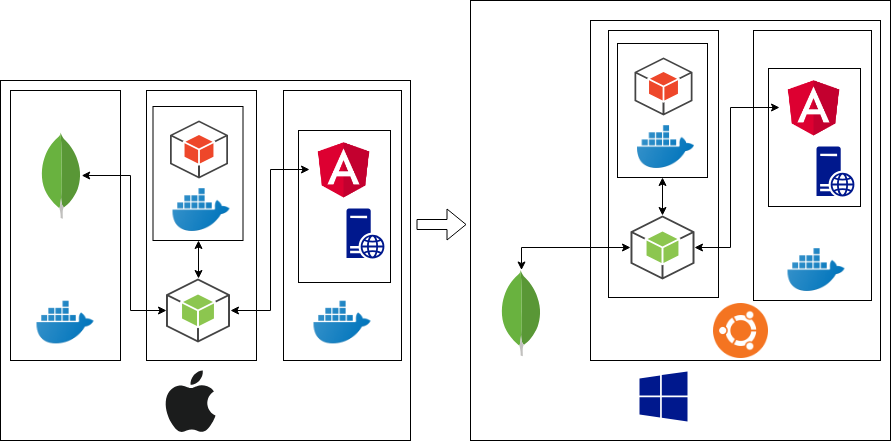
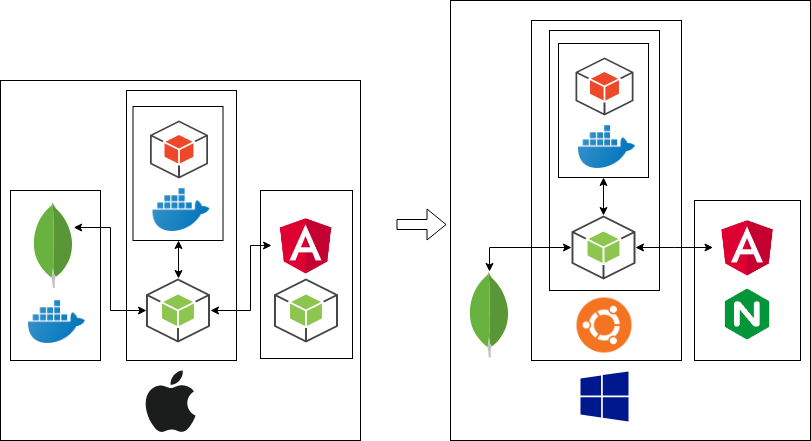
prod config

diff --git a/online-judge-site/src/app/services/code.service.ts b/online-judge-site/src/app/services/code.service.ts
@@ -1,7 +1,7 @@
 import { Injectable } from '@angular/core';
 import { HttpClient, HttpHeaders } from '@angular/common/http';
 
-import { Contest } from '../models/contest';
+import { environment } from '../../environments/environment';
 
 @Injectable({
   providedIn: 'root'
@@ -14,12 +14,12 @@ export class CodeService {
   }
 
   run(body) {
-    var url = 'http://localhost:3000/api/v1/run';
+    var url = environment.serverUrl + '/api/v1/run';
     return this.http.post(url, body, { headers: this.headers });
   }
 
   junit(body) {
-    var url = 'http://localhost:3000/api/v1/run/junit';
+    var url = environment.serverUrl + '/api/v1/run/junit';
     return this.http.post(url, body, { headers: this.headers });
   }
 }

diff --git a/online-judge-site/src/app/services/contest.service.ts b/online-judge-site/src/app/services/contest.service.ts
@@ -2,12 +2,13 @@ import { Injectable } from '@angular/core';
 import { HttpClient, HttpHeaders } from '@angular/common/http';
 import { Observable } from 'rxjs';
 import { Contest } from '../models/contest';
+import { environment } from '../../environments/environment';
 
 @Injectable({
   providedIn: 'root'
 })
 export class ContestService {
-  private url = 'http://localhost:3000/api/v1/contests';
+  private url = environment.serverUrl + '/api/v1/contests';
   private headers = new HttpHeaders().set('Content-Type', 'application/json');
   
   constructor(private http: HttpClient) { }

diff --git a/online-judge-server/app.js b/online-judge-server/app.js
@@ -13,6 +13,6 @@ app.use(bodyParser.json());
 
 app.use('/api/v1/', require('./routes/v1/'))
 
-app.listen(3000, function () {
+app.listen({port: 3000, host: '0.0.0.0'}, function () {
 	console.log('Listening on port 3000')
 });

diff --git a/online-judge-site/src/environments/environment.ts b/online-judge-site/src/environments/environment.ts
@@ -3,7 +3,8 @@
 // The list of file replacements can be found in `angular.json`.
 
 export const environment = {
-  production: false
+  production: false,
+  serverUrl: 'http://localhost:3000'
 };
 
 /*

diff --git a/online-judge-site/src/environments/environment.prod.ts b/online-judge-site/src/environments/environment.prod.ts
@@ -1,3 +1,4 @@
 export const environment = {
-  production: true
+  production: true,
+  serverUrl: 'http://m-yamagishi-np2:3000'
 };

diff --git a/docs/source/dev/Overview.md b/docs/source/dev/Overview.md
@@ -33,6 +33,7 @@
 	- ユーザにグループを追加する `sudo usermod -aG wheel m-yamagishi`
 	- 指定したユーザに変更する `su`
 	- ubuntuを管理者権限で実行.`sudo cgroupfs-mount`を都度実行 https://qiita.com/koinori/items/78a946fc74452af9afba
+	- ubuntu on WSLで`node app.js`するときにポートを開く許可をホストに要求しない.->Windowsであらかじめポートを外部からアクセスできるように設定しておかなければいけない https://www.nextofwindows.com/allow-server-running-inside-wsl-to-be-accessible-outside-windows-10-host
 
 - Docker
 	- dockerサービスの起動 `sudo service docker start`
@@ -47,6 +48,7 @@
 	- コンテナ終了後コンテナを削除 `--rm` https://qiita.com/hoshino/items/9545d255cc0103b3d296
 	- 未使用位コンテナイメージの一括削除 `docker image prune` https://qiita.com/boiyaa/items/9972601ffc240553e1f3
 	- mongo on windowsの設定ファイル https://qiita.com/t-koyama/items/9b8804cbec59b3c93eb0
+	- どっかーコンテナに外部から単純にアクセスできない http://mussyu1204.myhome.cx/wordpress/it/?p=115
 ![](https://cdn-images-1.medium.com/max/2600/1*vca4e-SjpzSL5H401p4LCg.png)
 
 - mongoDB
